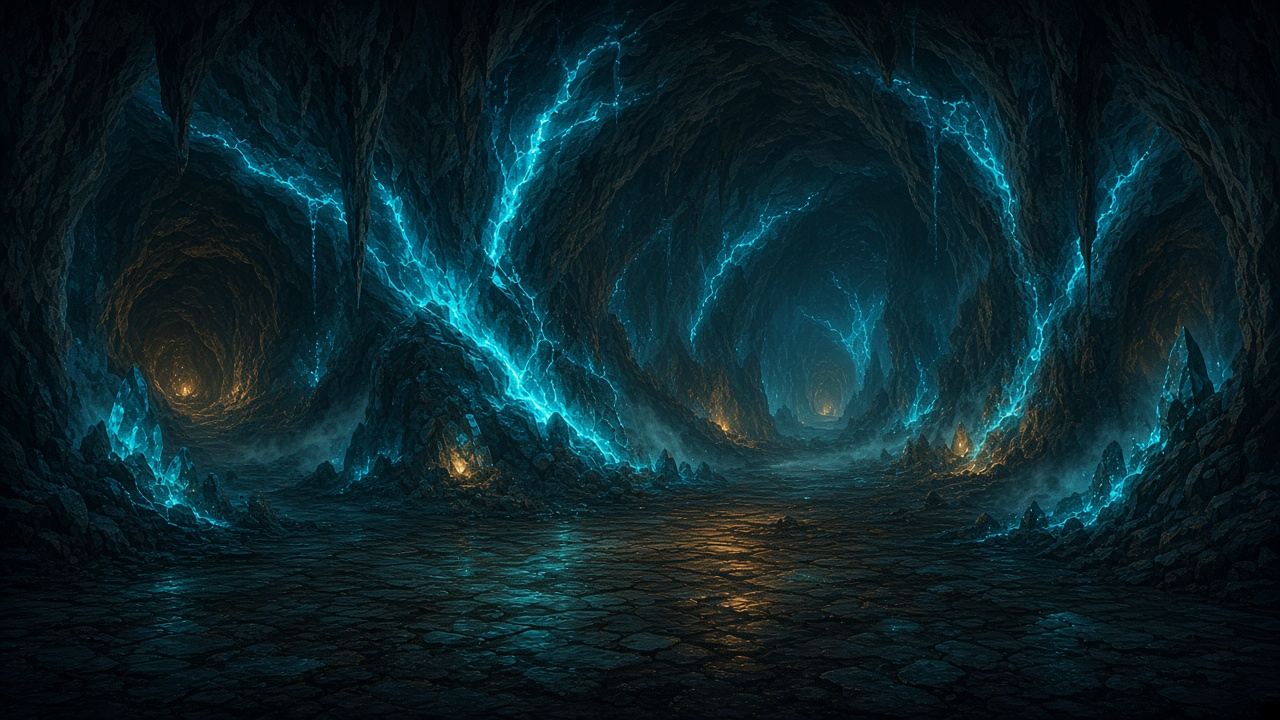
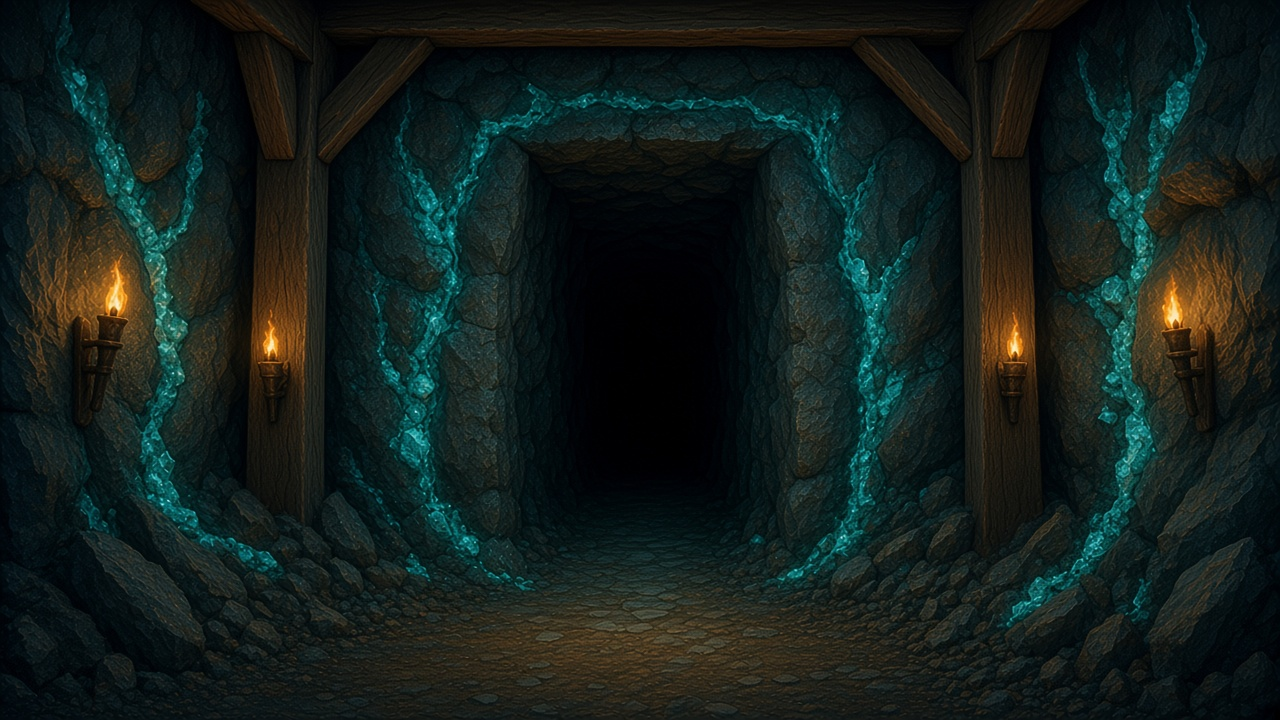
Match mine view to timber dig-shaft backdrop
Replace the crystal grotto painting with a timber-framed tunnel, center the dig face on the shaft opening, and draw shoring/torch props so the tile shaft reads as part of the mine.

diff --git a/src/forge/ForgeScene.ts b/src/forge/ForgeScene.ts
@@ -27,7 +27,7 @@ import {
   type ShaftCell,
 } from '../sim/mineShaft';
 
-/** Mine grotto + forge workshop hall */
+/** Timber-framed dig shaft + forge workshop hall */
 const MINE_BG_URL = `${import.meta.env.BASE_URL}art/mine-cavern-bg.jpg`;
 const FORGE_BG_URL = `${import.meta.env.BASE_URL}art/forge-hall-bg.jpg`;
 const STATION_ART: Record<StationId, string> = {
@@ -54,6 +54,9 @@ const COLORS = {
   cyan: 0x2ec4b6,
   mist: 0xe8f1f2,
   slate: 0x8fa8b0,
+  timber: 0x5c3a22,
+  timberDark: 0x3a2414,
+  timberLight: 0x7a5234,
   dwarfSkin: 0xc4a574,
   dwarfCoat: 0x3d5a4c,
   dwarfHelm: 0xb87333,
@@ -528,7 +531,9 @@ export class ForgeScene {
 
   private dwarfPoint() {
     const { x, y } = this.veinPoint();
-    return { x: x - 90, y: y + 8 };
+    const short = Math.min(this.width, this.height);
+    const offset = Math.min(110, Math.max(72, short * 0.14));
+    return { x: x - offset, y: y + 10 };
   }
 
   private handlePointer(px: number, py: number) {
@@ -600,8 +605,8 @@ export class ForgeScene {
         { x: 0.5, y: playY },
         mineZoom,
       );
-      // Dim painted cavern so the tile shaft reads as the main play surface
-      this.mineBg.alpha = 0.55;
+      // Keep timber/ore backdrop readable; tiles sit in the dark shaft void
+      this.mineBg.alpha = 0.78;
     }
     if (this.forgeBg) {
       if (portrait) {
@@ -753,23 +758,27 @@ export class ForgeScene {
     }
   }
 
-  /** Soft cyan bloom around the ore vein — mine grotto, not forge fire. */
+  /** Soft mineral bloom around the dig face — shaft tunnel, not forge fire. */
   private redrawVeinAmbient() {
     const g = this.hearth;
     g.clear();
     const { x, y } = this.veinPoint();
     const breath = 1 + Math.sin(this.pulse * 2.2) * 0.1;
     const boost = this.craftBurstT > 0 ? 1.12 : 1;
+    const { w: cellW, h: cellH } = this.cellSize;
+    const shaftW = cellW * SHAFT_COLS + 18;
+    const shaftH = cellH * (SHAFT_LOOKAHEAD + SHAFT_LOOKBEHIND + 1.4);
 
-    g.circle(x, y, 78 * breath * boost);
-    g.fill({ color: COLORS.cyan, alpha: 0.1 });
-    g.circle(x, y, 42 * breath * boost);
-    g.fill({ color: COLORS.tealLight, alpha: 0.14 });
+    // Cool ore wash inside the open shaft (kept subtle so timber bg stays dominant)
+    g.rect(x - shaftW * 0.5, y - shaftH * 0.5, shaftW, shaftH);
+    g.fill({ color: COLORS.cyan, alpha: 0.045 * breath * boost });
+    g.circle(x, y + cellH * 0.2, 56 * breath * boost);
+    g.fill({ color: COLORS.tealLight, alpha: 0.08 });
 
     const cosmetic = this.state?.activeCosmetic ?? 'default';
     if (cosmetic !== 'default') {
       const tint = cosmetic === 'cyan_hearth' ? COLORS.cyan : COLORS.amber;
-      g.star(x, y - 54, 5, 11, 5, this.pulse);
+      g.star(x, y - shaftH * 0.42, 5, 11, 5, this.pulse);
       g.fill({ color: tint, alpha: 0.85 });
     }
   }
@@ -864,23 +873,32 @@ export class ForgeScene {
     const shaftW = cellW * SHAFT_COLS + 18;
     const shaftH = cellH * (SHAFT_LOOKAHEAD + SHAFT_LOOKBEHIND + 1.4);
 
-    // Side walls + open tunnel — Terraria shaft silhouette
-    const wallAlpha = 0.82 + this.stratumFlash * 0.12;
-    g.rect(cx - shaftW * 0.5 - 22, cy - shaftH * 0.55, 22, shaftH * 1.15);
+    // Side rock + open tunnel void — reads against the timber-framed backdrop
+    const wallAlpha = 0.72 + this.stratumFlash * 0.12;
+    const wallPad = 26;
+    g.rect(cx - shaftW * 0.5 - wallPad, cy - shaftH * 0.55, wallPad, shaftH * 1.15);
     g.fill({ color: stratum.wall, alpha: wallAlpha });
-    g.rect(cx + shaftW * 0.5, cy - shaftH * 0.55, 22, shaftH * 1.15);
+    g.rect(cx + shaftW * 0.5, cy - shaftH * 0.55, wallPad, shaftH * 1.15);
     g.fill({ color: stratum.wall, alpha: wallAlpha });
     g.rect(cx - shaftW * 0.5, cy - shaftH * 0.55, shaftW, shaftH * 1.15);
-    g.fill({ color: COLORS.void, alpha: 0.5 + this.stratumFlash * 0.15 });
+    g.fill({ color: COLORS.void, alpha: 0.58 + this.stratumFlash * 0.12 });
 
-    // Torch glow in cleared tunnel
-    for (let i = 0; i < SHAFT_LOOKBEHIND; i++) {
-      const ty = cy - cellH * (i + 0.8);
-      const flicker = 0.25 + Math.sin(this.pulse * 5 + i) * 0.06;
-      g.circle(cx - shaftW * 0.42, ty, 10);
-      g.fill({ color: COLORS.amber, alpha: flicker * 0.55 });
-      g.circle(cx + shaftW * 0.42, ty, 10);
-      g.fill({ color: COLORS.ember, alpha: flicker * 0.4 });
+    this.drawShaftTimbers(g, cx, cy, shaftW, shaftH);
+
+    // Torch glow along timber posts (matches painted sconces)
+    for (let i = 0; i < SHAFT_LOOKBEHIND + 1; i++) {
+      const ty = cy - cellH * (i + 0.55);
+      const flicker = 0.28 + Math.sin(this.pulse * 5 + i) * 0.07;
+      const lx = cx - shaftW * 0.5 - 10;
+      const rx = cx + shaftW * 0.5 + 10;
+      g.circle(lx, ty, 11);
+      g.fill({ color: COLORS.amber, alpha: flicker * 0.5 });
+      g.circle(rx, ty, 11);
+      g.fill({ color: COLORS.ember, alpha: flicker * 0.38 });
+      g.circle(lx, ty - 6, 2.2);
+      g.fill({ color: COLORS.mist, alpha: flicker * 0.55 });
+      g.circle(rx, ty - 6, 2.2);
+      g.fill({ color: COLORS.mist, alpha: flicker * 0.45 });
     }
 
     const ordered = [...this.shaftCells].sort((a, b) => {
@@ -916,6 +934,48 @@ export class ForgeScene {
       g.rect(cx - shaftW * 0.5, cy - shaftH * 0.55, shaftW, shaftH * 1.15);
       g.fill({ color: stratum.fleck, alpha: this.stratumFlash * 0.12 });
     }
+  }
+
+  /** Timber props that echo the painted shaft frame around the dig tiles. */
+  private drawShaftTimbers(
+    g: Graphics,
+    cx: number,
+    cy: number,
+    shaftW: number,
+    shaftH: number,
+  ) {
+    const top = cy - shaftH * 0.55;
+    const bot = top + shaftH * 1.15;
+    const left = cx - shaftW * 0.5;
+    const right = cx + shaftW * 0.5;
+    const postW = 10;
+    const beamH = 12;
+
+    // Vertical posts
+    g.rect(left - postW - 2, top - 4, postW, bot - top + 8);
+    g.fill({ color: COLORS.timber, alpha: 0.92 });
+    g.rect(left - postW, top, 3, bot - top);
+    g.fill({ color: COLORS.timberLight, alpha: 0.35 });
+    g.rect(right + 2, top - 4, postW, bot - top + 8);
+    g.fill({ color: COLORS.timber, alpha: 0.92 });
+    g.rect(right + postW - 1, top, 3, bot - top);
+    g.fill({ color: COLORS.timberDark, alpha: 0.55 });
+
+    // Header + footer beams
+    g.rect(left - postW - 4, top - beamH, shaftW + postW * 2 + 8, beamH);
+    g.fill({ color: COLORS.timberDark, alpha: 0.95 });
+    g.rect(left - postW - 4, top - 3, shaftW + postW * 2 + 8, 3);
+    g.fill({ color: COLORS.timberLight, alpha: 0.4 });
+    g.rect(left - postW - 4, bot, shaftW + postW * 2 + 8, beamH * 0.75);
+    g.fill({ color: COLORS.timberDark, alpha: 0.85 });
+
+    // Corner braces only — keep the dig face clear for tiles
+    g.moveTo(left - postW - 2, top + 8);
+    g.lineTo(left + 16, top + 34);
+    g.stroke({ width: 4, color: COLORS.timberDark, alpha: 0.7 });
+    g.moveTo(right + postW + 2, top + 8);
+    g.lineTo(right - 16, top + 34);
+    g.stroke({ width: 4, color: COLORS.timberDark, alpha: 0.7 });
   }
 
   private drawBlockTile(

diff --git a/src/forge/layout.ts b/src/forge/layout.ts
@@ -11,8 +11,9 @@ export interface UvPoint {
  * Focal points painted into the art — used both for cover framing
  * and for converting UV → screen so props track the image when cropped.
  */
-export const MINE_FOCUS: UvPoint = { x: 0.36, y: 0.52 };
-export const MINE_VEIN_UV: UvPoint = { x: 0.34, y: 0.54 };
+/** Center of the timber-framed dig shaft painted into mine-cavern-bg. */
+export const MINE_FOCUS: UvPoint = { x: 0.5, y: 0.48 };
+export const MINE_VEIN_UV: UvPoint = { x: 0.5, y: 0.5 };
 
 export const FORGE_FOCUS: UvPoint = { x: 0.5, y: 0.56 };
 export const FORGE_STATION_UV: Record<StationId, UvPoint> = {

diff --git a/src/forge/layout.test.ts b/src/forge/layout.test.ts
@@ -30,9 +30,11 @@ describe('art anchors', () => {
     expect(xs[1]).toBeLessThan(xs[2]);
   });
 
-  it('places the mine vein on the left-center crystal', () => {
-    expect(MINE_VEIN_UV.x).toBeGreaterThan(0.2);
-    expect(MINE_VEIN_UV.x).toBeLessThan(0.45);
+  it('places the dig face in the timber-framed shaft opening', () => {
+    expect(MINE_VEIN_UV.x).toBeGreaterThan(0.4);
+    expect(MINE_VEIN_UV.x).toBeLessThan(0.6);
+    expect(MINE_VEIN_UV.y).toBeGreaterThan(0.4);
+    expect(MINE_VEIN_UV.y).toBeLessThan(0.6);
   });
 });
 

diff --git a/src/forge/miningFace.ts b/src/forge/miningFace.ts
@@ -33,7 +33,7 @@ export function createOreRocks(count = 10): OreRock[] {
       maxHp,
       respawn: 0,
       seed: 1.1 + i * 0.37,
-      // Warm stone tones so they read against the cyan cavern painting
+      // Cool stone tones that sit on the timber-framed shaft backdrop
       tint: i % 3 === 0 ? 0x3a4a52 : i % 3 === 1 ? 0x2c383f : 0x46565e,
     });
   }
